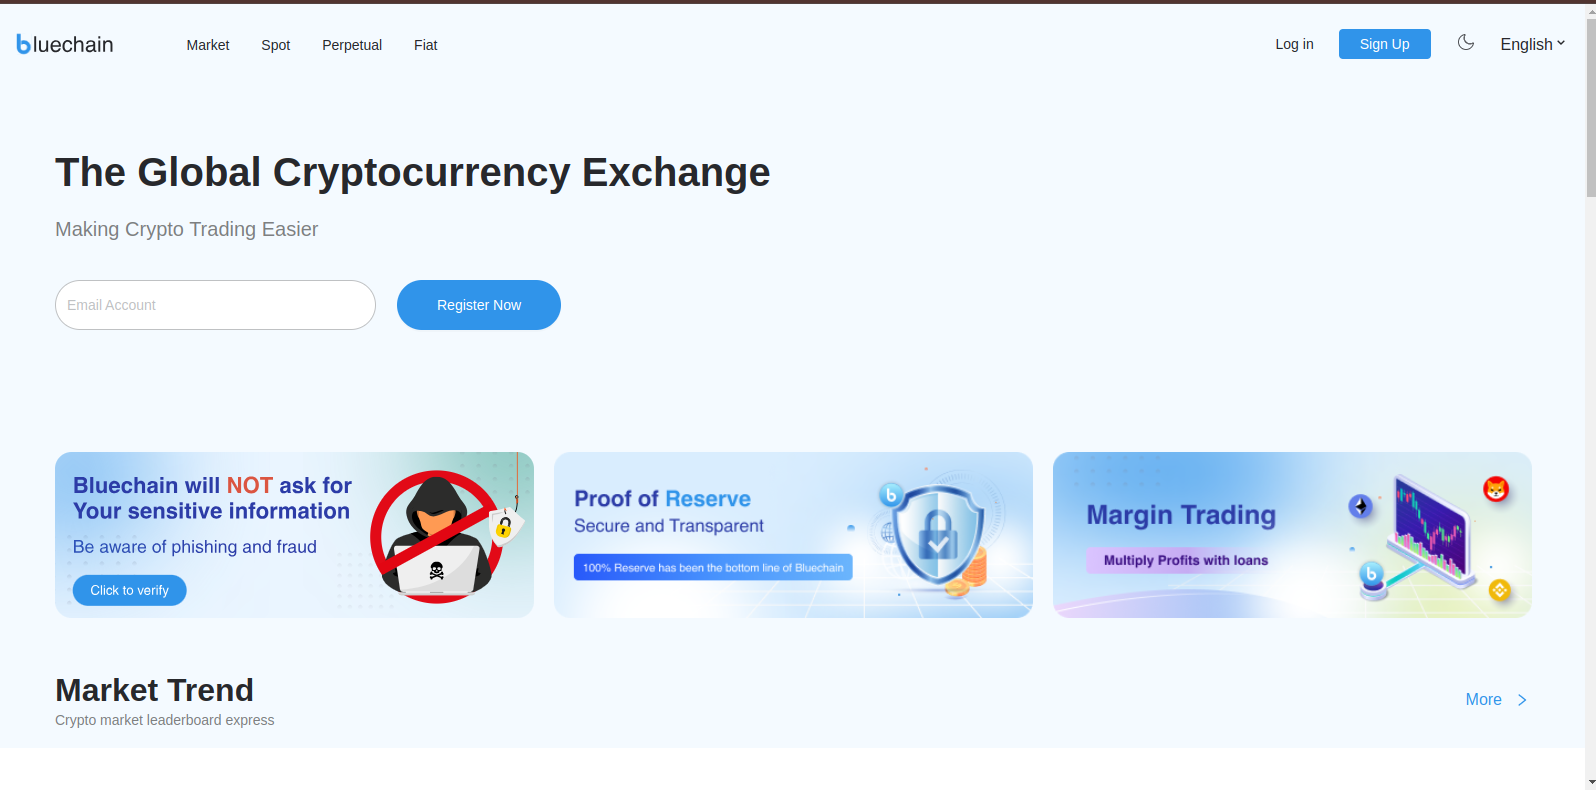
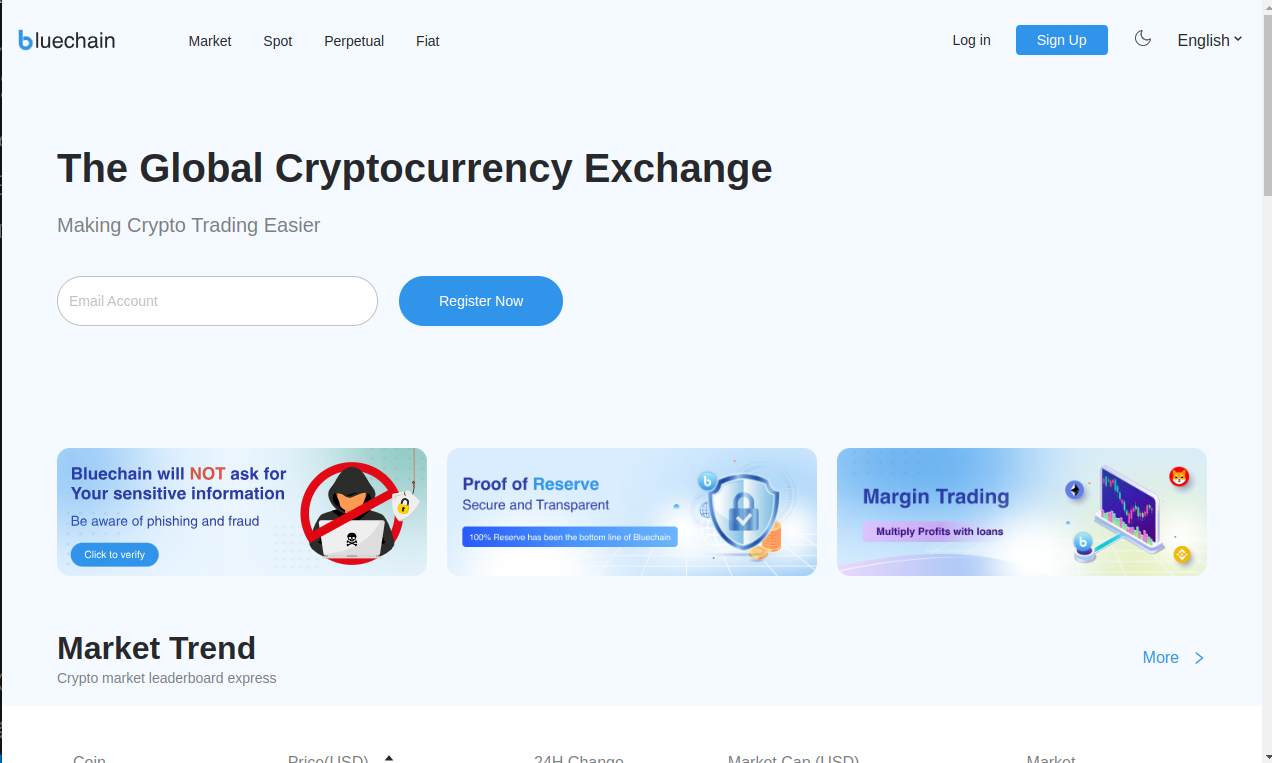
change padding and update image size

diff --git a/src/components/footer.js b/src/components/footer.js
@@ -13,12 +13,16 @@ export default function Footer() {
   };
 
   return (
-    <footer className="bg-black text-white flex items-center justify-center flex-col py-10 gap-10">
+    <footer className="bg-black text-white flex items-center justify-center flex-col py-10 gap-8">
       <button
         className="group uppercase flex items-center justify-center flex-col gap-2 text-lg tracking-widest font-bold"
         onClick={handleBackToTopClick}
       >
-        <MdDoubleArrow color="white" size={25} className="-rotate-90 bottom-0 duration-200 group-hover:-translate-y-1" />
+        <MdDoubleArrow
+          color="white"
+          size={25}
+          className="-rotate-90 bottom-0 duration-200 group-hover:-translate-y-1"
+        />
         Back to top
       </button>
       <div className="flex gap-5">
@@ -28,8 +32,8 @@ export default function Footer() {
         <AiOutlineMail size={36} />
       </div>
       <p>
-        <span className="font-bold text-xl">@2023 Vishal Prajapati</span> All
-        Rights Reserved.
+        <span className="font-bold">@2023 Vishal Prajapati</span>&nbsp;
+        <span className="text-sm">All Rights Reserved.</span>
       </p>
     </footer>
   );

diff --git a/src/components/portfolio.js b/src/components/portfolio.js
@@ -31,18 +31,18 @@ export default function Portfolio() {
   return (
     <section
       id="portfolio"
-      className="flex justify-center items-center flex-col gap-16 pt-28 max-w-7xl mx-auto px-8"
+      className="flex justify-center items-center flex-col gap-16 pt-28 max-w-7xl mx-auto"
     >
       <SectionHeading label="Portfolio" />
-      <div className="flex flex-col items-center gap-5 xl:flex-row">
+      <div className="flex flex-col items-center gap-5 px-5 xl:flex-row">
         {projects.map((project, index) => (
           <div key={index} className="md:w-1/2 xl:w-1/3 border-4 border-black">
             <Image
               src={project.image}
               alt={project.name}
               width={500}
-              height={400}
-              className="w-full"
+              height={250}
+              className="w-full h-[250px] object-cover"
             />
             <div className="p-2 flex flex-col gap-2">
               <h2 className="font-bold">{project.name}</h2>

diff --git a/src/components/skills.js b/src/components/skills.js
@@ -1,15 +1,14 @@
 import SectionHeading from './common/section-heading.js';
-import Separator from './common/separator.js';
 import Skill from './common/skill.js';
 
 export default function Skills() {
   return (
     <section
       id="skills"
-      className="flex items-center justify-center flex-col pt-28 px-5 gap-20 max-w-3xl mx-auto"
+      className="flex items-center justify-center flex-col pt-28 gap-20 max-w-3xl mx-auto"
     >
       <SectionHeading label="Skills" />
-      <div className="grid grid-cols-3 gap-10 md:grid-cols-4 md:gap-20">
+      <div className="grid grid-cols-3 gap-10 md:grid-cols-4 px-5 md:gap-20">
         <Skill src="/images/html5.svg" title="HTML5" />
         <Skill src="/images/css3.svg" title="CSS3" />
         <Skill src="/images/js.svg" title="Javascript" />

diff --git a/src/components/contact.js b/src/components/contact.js
@@ -49,7 +49,7 @@ export default function Contact() {
     >
       <SectionHeading label="Contact" />
       <form
-        className="flex justify-center items-center flex-col gap-10 w-full px-8 md:w-1/2"
+        className="flex justify-center items-center flex-col gap-10 w-full px-5 md:w-1/2"
         method="post"
         onSubmit={handleSubmit}
       >

diff --git a/src/components/common/section-heading.js b/src/components/common/section-heading.js
@@ -1,6 +1,6 @@
 export default function SectionHeading({ label }) {
   return (
-    <h1 className="text-2xl uppercase font-bold py-4 px-12 border-4 border-black tracking-widest inline-block">
+    <h1 className="text-xl md:text-2xl uppercase font-bold py-4 px-12 border-4 border-black tracking-widest inline-block">
       {label}
     </h1>
   );
